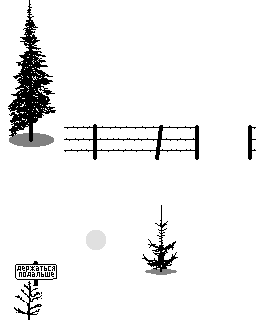
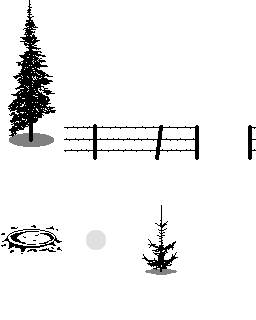
minesweeper updates

Changed region(s): [[0.0, 0.6875, 0.25, 1.0]]

diff --git a/minesweeper/js/main.js b/minesweeper/js/main.js
@@ -8,6 +8,7 @@ const DEPTHS =
 {
     BG : 0,
     GRID: 10,
+    PLAYER: 15,
     GUESS: 20,
     FG: 40,
     UI: 50
@@ -59,8 +60,12 @@ let GameScene = new Phaser.Class({
         //do/undo log
         let events = [];
 
-        let current_x = 3;
-        let current_y = 0;
+        let start_x = 3;
+        let start_y = -2;
+        let current_x = start_x;
+        let current_y = start_y;
+        let target_x = 3;
+        let target_y = 0;
         let player_pic = null;
         let player_text = null;
 
@@ -77,11 +82,9 @@ let GameScene = new Phaser.Class({
         };
 
         let set_player_location = function(x, y) {
-            current_x = x;
-            current_y = y;
-            player_pic.x = xPixel(x);
-            player_pic.y = yPixel(y - 0.5);
-            grid_squares[x][y].data.values.text.setVisible(true);
+            target_x = x;
+            target_y = y;
+            state_handler.changeState(STATES.WALK);
         };
 
         let prepare_empty_grid = function() {
@@ -151,9 +154,11 @@ let GameScene = new Phaser.Class({
                                 square.data.values.locked = !square.data.values.locked;
                                 square.data.values.flag.setVisible(square.data.values.locked);
                             }
-                        } else if (delta === 1) {
+                        } else if (delta === 1 && state_handler.getState() === STATES.IDLE) {
                             if (square.data.values.hidden_mine) {
-                                set_player_location(3, 0)
+                                target_x = x;
+                                target_y = y;
+                                state_handler.changeState(STATES.DEAD);
                             } else {
                                 set_player_location(square.data.values.x, square.data.values.y);
                             }
@@ -171,6 +176,7 @@ let GameScene = new Phaser.Class({
                         yPixel(y + 0.5),
                         '' + 0 + '',
                         {font: '' + GRID_SIZE/2 + 'px kremlin', fill: '#000000'})
+                        .setDepth(DEPTHS.GUESS)
                         .setOrigin(1, 1)
                         .setVisible(false);
                     let sum = 0;
@@ -208,7 +214,7 @@ let GameScene = new Phaser.Class({
             let particles = scene.add.particles('tiles',5);
 
             particles.createEmitter({
-                alpha: { start: 0.75, end: 0 },
+                alpha: 0.85, //{ start: 0.85, end: 0.75 },
                 //scale: { start: 0.5, end: 2.5 },
                 //tint: 0x000080,
                 //speed: 100,
@@ -227,10 +233,10 @@ let GameScene = new Phaser.Class({
             });
             particles.setDepth(DEPTHS.FG);
 
-             particles = scene.add.particles('tiles',5);
+            particles = scene.add.particles('tiles',5);
 
             particles.createEmitter({
-                alpha: 0.75,
+                alpha: 0.85,
                 scale: 0.5, //{ start: 0.5, end: 2.5 },
                 //tint: 0x000080,
                 //speed: 100,
@@ -257,47 +263,89 @@ let GameScene = new Phaser.Class({
 
         prepare_empty_grid();
 
-        player_pic = scene.add.sprite(xPixel(current_x),yPixel(current_y-0.5),'guy', 0);
+        player_pic = scene.add.sprite(xPixel(current_x),yPixel(current_y-0.5),'guy', 0)
+            .setScale(1.5)
+            .setDepth(DEPTHS.PLAYER);
+        let walk = (complete) => {
+            player_pic.play('guy_walk_anim');
+            if (current_x > target_x) {
+                player_pic.setFlipX(true);
+            } else if (current_x < target_x) {
+                player_pic.setFlipX(false);
+            }
+            let delta = Phaser.Math.Distance.Between(
+                current_x, current_y,
+                target_x, target_y);
+            state_handler.addTween({
+                targets: player_pic,
+                x: xPixel(target_x),
+                y: yPixel(target_y - 0.5),
+                duration: 1000 * delta,
+                onComplete: complete
+            });
+        };
+        let enter_walk = () => {
+            walk(() => {
+                state_handler.changeState(STATES.IDLE);
+            });
+        };
+        let exit_walk = () => {
+            player_pic.anims.stop();
+            current_x = target_x;
+            current_y = target_y;
+            player_pic.x = xPixel(current_x);
+            player_pic.y = yPixel(current_y - 0.5);
+        };
+
+        let enter_idle = () => {
+            player_pic.setFrame(0);
+            grid_squares[current_x][current_y].data.values.text.setVisible(true);
+        };
+
+        let enter_dead = () => {
+            walk(() => {
+                scene.add.sprite(xPixel(target_x), yPixel(target_y), 'tiles', 4);
+                current_x = start_x;
+                current_y = start_y;
+                player_pic.x = xPixel(current_x);
+                player_pic.y = yPixel(current_y - 0.5);
+                let flash = scene.add.rectangle(SCREEN_WIDTH/2, SCREEN_HEIGHT/2,
+                    SCREEN_WIDTH, SCREEN_HEIGHT, 0xffffff)
+                    .setDepth(DEPTHS.FG);
+                state_handler.addTween({
+                    targets: flash,
+                    alpha: 0,
+                    delay: 500,
+                    duration: 2000,
+                    onComplete: () => {
+                        set_player_location(3, 0);
+                        flash.destroy();
+                    }
+                });
+            });
+        };
+
+        let STATES = {
+            WALK: {enter: enter_walk, exit: exit_walk},
+            IDLE: {enter: enter_idle, exit: null},
+            DEAD: {enter: enter_dead, exit: null},
+        };
+        let state_handler = stateHandler(scene, STATES, STATES.WALK);
 
         set_player_location(3, 0);
+        state_handler.start();
+
 
         //----------------------------------------------------------------------
         // SETUP GAME INPUT
         //----------------------------------------------------------------------
         scene.input.addPointer(5);
-
-        /*
-        Util.make_button(
-            scene.add.image(xPixel(SCREEN_COLUMNS-2),yPixel(SCREEN_ROWS+4),'undo'),
-            undo_square);
-        Util.make_button(
-            scene.add.image(xPixel(SCREEN_COLUMNS-1),yPixel(SCREEN_ROWS+4),'clue'),
-            reveal_random_hint);
-        Util.make_button(
-            scene.add.image(xPixel(SCREEN_COLUMNS),yPixel(SCREEN_ROWS+4),'info'),
-            HelpApi.fade_in);
-
-         */
     },
 
     update: function () {
     }
 });
 
-//Util functions
-let Util = {
-    make_button : function(image,func) {
-        image.setAlpha(0.5);
-        image.setInteractive();
-        image.on(Phaser.Input.Events.GAMEOBJECT_POINTER_OVER, function() {
-            image.setAlpha(1);
-        });
-        image.on(Phaser.Input.Events.GAMEOBJECT_POINTER_OUT, function() {
-            image.setAlpha(0.5);
-        });
-        image.on(Phaser.Input.Events.GAMEOBJECT_POINTER_UP, func);
-    }
-};
 
 //external help api
 //filled in during HelpScene.create();
@@ -344,10 +392,9 @@ let LoadScene = new Phaser.Class({
             scene.scene.start('HelpScene');
             scene.scene.start('GameScene');
             scene.scene.bringToTop('HelpScene');
-            scene.scene.stop('LoadScene');
         });
         scene.load.spritesheet('tiles', 'assets/tiles.png', { frameWidth: 64, frameHeight: 160});
-        scene.load.spritesheet('guy', 'assets/guy.png', { frameWidth: 64, frameHeight: 128});
+        scene.load.spritesheet('guy', 'assets/guy2.png', { frameWidth: 32, frameHeight: 64});
         scene.load.spritesheet('flag', 'assets/flag.png', { frameWidth: 64, frameHeight: 64});
     },
 
@@ -366,6 +413,15 @@ let LoadScene = new Phaser.Class({
             ],
             skipMissedFrames: false,
             frameRate: 3,
+            repeat: -1
+        });
+
+        scene.anims.create({
+            key: 'guy_walk_anim',
+            frames: scene.anims.generateFrameNumbers('guy',
+                { start: 0, end: 9 }),
+            skipMissedFrames: false,
+            frameRate: 10,
             repeat: -1
         });
     },

diff --git a/minesweeper/js/utils.js b/minesweeper/js/utils.js
@@ -1,0 +1,145 @@
+let getRelativePositionToCanvas = (gameObject, camera) => {
+    return {
+        x: (gameObject.x - camera.worldView.x) * camera.zoom,
+        y: (gameObject.y - camera.worldView.y) * camera.zoom
+    }
+};
+
+let asyncHandler = function (scene) {
+    let self = this;
+    let m_tweens = [];
+    let m_timelines = [];
+    let m_delayedCalls = [];
+
+    //clear async calls
+    let clear = function () {
+        Phaser.Utils.Array.Each(m_tweens, function (tween) {
+            tween.remove();
+        }, self);
+        Phaser.Utils.Array.Each(m_timelines, function (timeline) {
+            timeline.stop();
+        }, self);
+        Phaser.Utils.Array.Each(m_delayedCalls, function (delayedCall) {
+            delayedCall.remove(false);
+        }, self);
+        m_tweens = [];
+        m_timelines = [];
+        m_delayedCalls = [];
+    };
+
+    let pause = function () {
+        Phaser.Utils.Array.Each(m_tweens, (tween) => tween.pause(), self);
+        Phaser.Utils.Array.Each(m_timelines, (timeline) => timeline.pause(), self);
+        Phaser.Utils.Array.Each(m_delayedCalls, (delayedCall) => delayedCall.paused = true, self);
+    };
+
+    let resume = function () {
+        Phaser.Utils.Array.Each(m_tweens, (tween) => tween.resume(), self);
+        Phaser.Utils.Array.Each(m_timelines, (timeline) => timeline.resume(), self);
+        Phaser.Utils.Array.Each(m_delayedCalls, (delayedCall) => delayedCall.paused = false, self);
+    };
+
+    let addTween = function (tween) {
+        m_tweens.push(scene.tweens.add(tween));
+    };
+
+    let addTweenSequence = function (tweens) {
+        let timeline = scene.tweens.createTimeline();
+        m_timelines.push(timeline);
+        for (let tween of tweens) {
+            timeline.add(tween);
+        }
+        timeline.play();
+    };
+
+    let addTweenParallel = function (tweens, onComplete) {
+        let target_rendevous = tweens.length;
+        let current_rendevous = 0;
+        let check_rendevous = function () {
+            current_rendevous++;
+            if (current_rendevous === target_rendevous) {
+                onComplete();
+            }
+        };
+        for (let tween of tweens) {
+            tween.onComplete = check_rendevous;
+            m_tweens.push(scene.tweens.add(tween));
+        }
+    };
+
+    let addDelayedCall = function (delay, callback, args, scope) {
+        m_delayedCalls.push(scene.time.delayedCall(delay, callback, args, scope));
+    };
+
+    return {
+        clear: clear,
+        pause: pause,
+        resume: resume,
+        addTween: addTween,
+        addTweenParallel: addTweenParallel,
+        addTweenSequence: addTweenSequence,
+        addDelayedCall: addDelayedCall
+    };
+};
+
+let stateHandler = function (scene, states, start_state) {
+    let async_handler = asyncHandler(scene);
+    let current_state = start_state;
+
+    let enter_state = function () {
+        if (current_state.enter) {
+            current_state.enter();
+        }
+    };
+
+    let exit_state = function () {
+        if (current_state.exit) {
+            current_state.exit();
+        }
+    };
+
+    let changeState = function (new_state) {
+        //no-op on self transition
+        if (current_state === new_state) {
+            return;
+        }
+
+        //clear async calls
+        async_handler.clear();
+
+        exit_state();
+        current_state = new_state;
+        enter_state();
+    };
+
+    let getState = function () {
+        return current_state;
+    };
+
+    //do the initial state enter
+    let start = function () {
+        enter_state();
+    };
+
+    return {
+        changeState: changeState,
+        getState: getState,
+        start: start,
+        addTween: async_handler.addTween,
+        addTweenParallel: async_handler.addTweenParallel,
+        addTweenSequence: async_handler.addTweenSequence,
+        addDelayedCall: async_handler.addDelayedCall
+    };
+};
+
+let addButton = (object, handler) => {
+    object.setAlpha(0.5);
+    object.setInteractive();
+    object.on(Phaser.Input.Events.GAMEOBJECT_POINTER_OVER, () => {
+        object.setAlpha(1);
+    });
+    object.on(Phaser.Input.Events.GAMEOBJECT_POINTER_OUT, () => {
+        object.setAlpha(0.5);
+    });
+    object.on(Phaser.Input.Events.GAMEOBJECT_POINTER_DOWN, handler);
+};

diff --git a/minesweeper/index.html b/minesweeper/index.html
@@ -23,6 +23,7 @@ background: #000000;
 <div style="font-family:kremlin; position: absolute; left:-1000px; visibility:hidden;">.</div>
 <script type="text/javascript" src="../libs/phaser3/phaser.min.js"></script>
 <div id="phaser-example"></div>
+<script src="js/utils.js"></script>
 <script src="js/main.js"></script>
 </body>
 </html>
